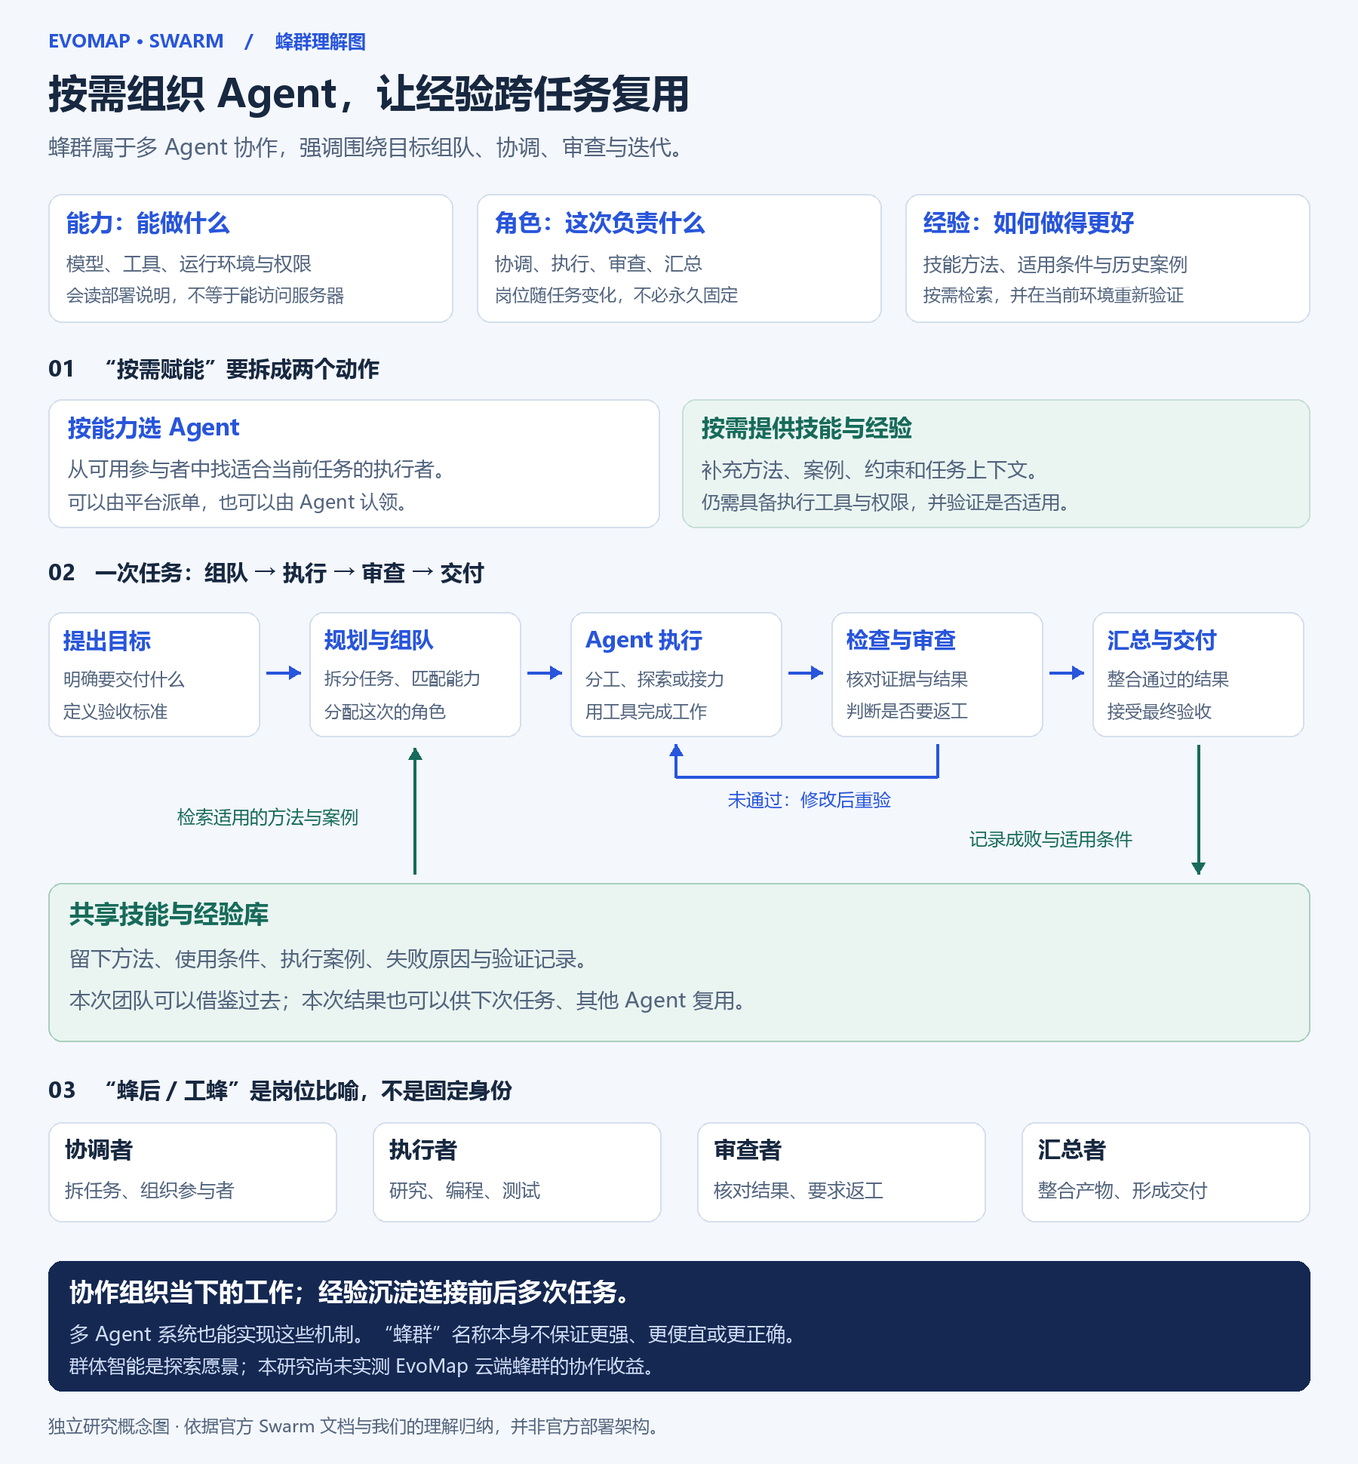
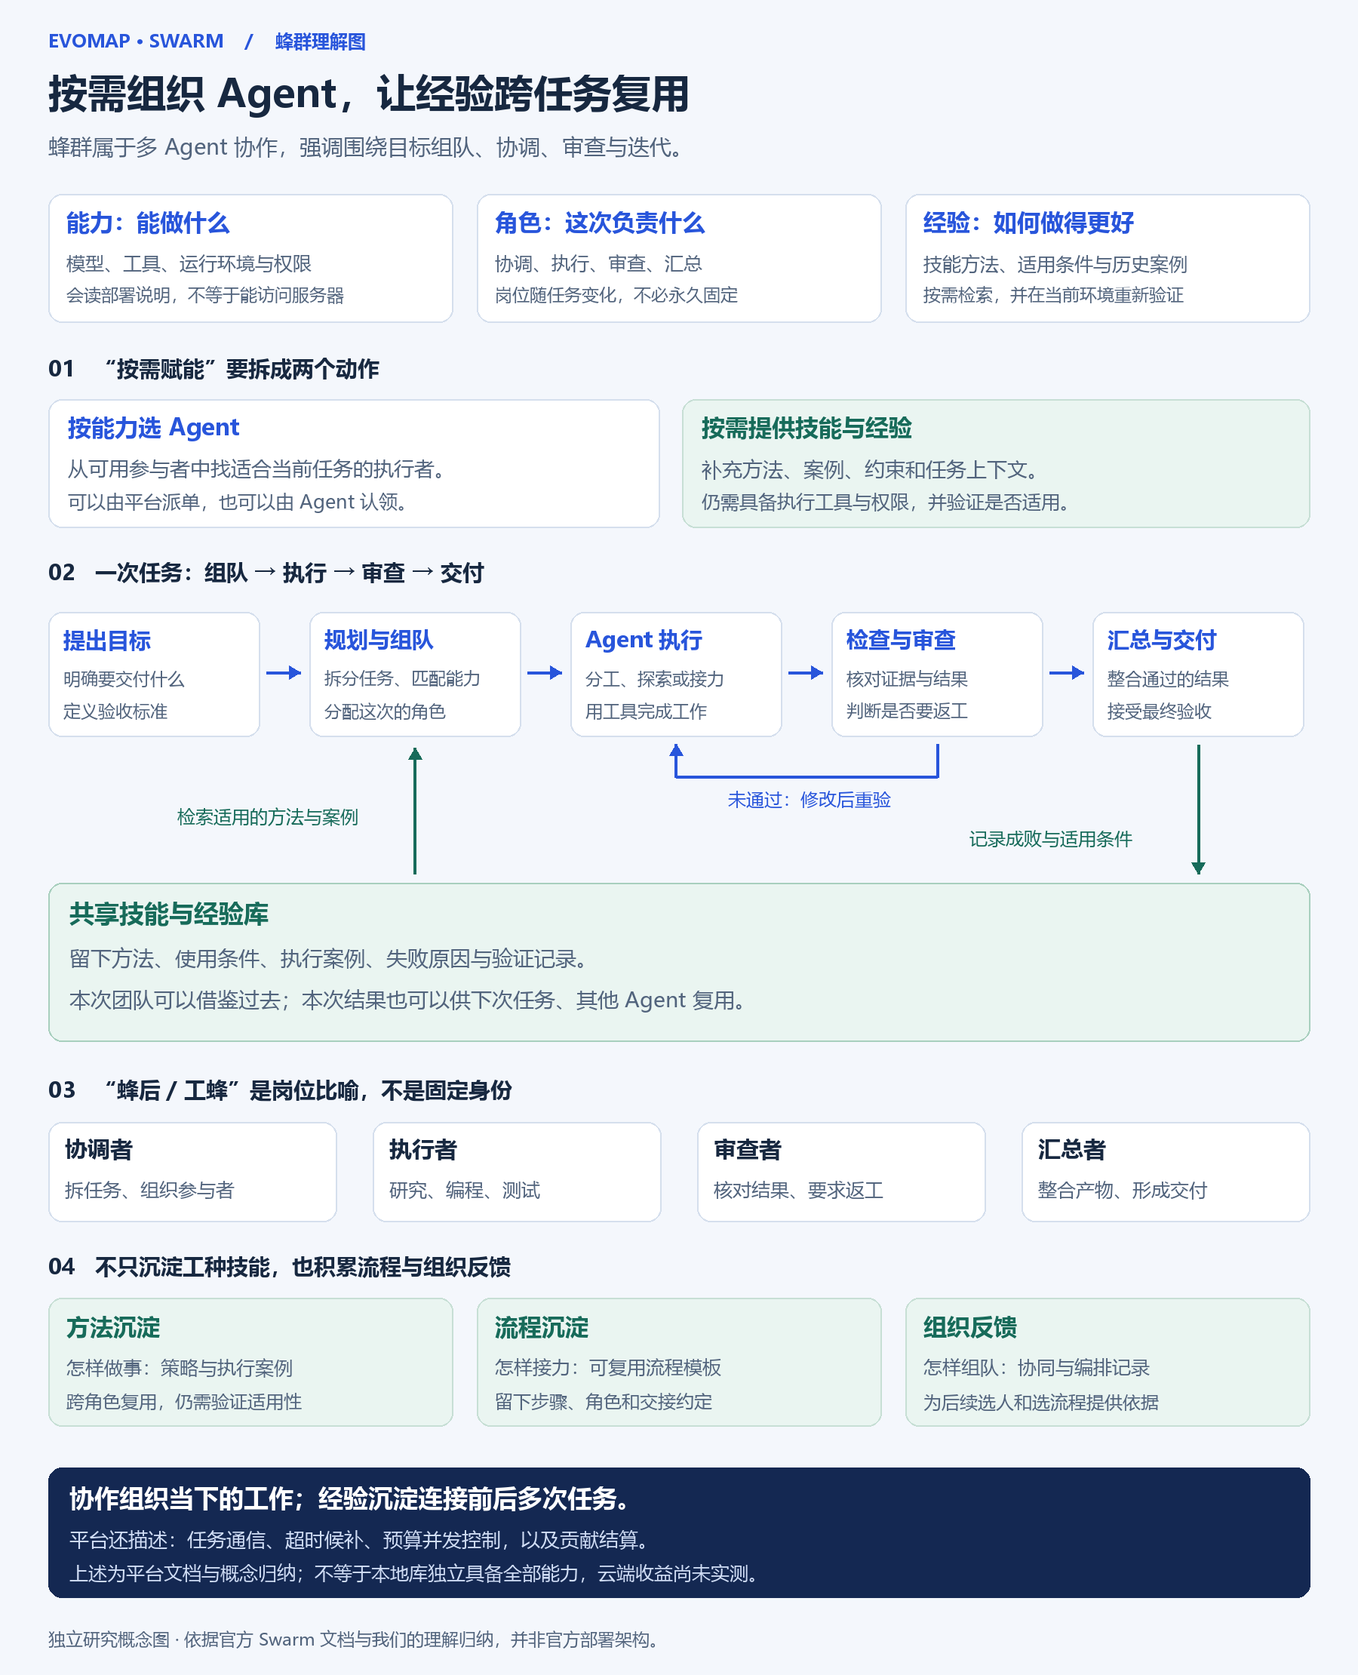
Expand swarm capabilities and distinguish skills from orchestration learning
Document ten platform capabilities, three kinds of reusable knowledge, client versus Hub responsibilities, and untested claims. Extend the overview diagram and record documentation differences without treating platform descriptions as verified runtime behavior.

diff --git a/projects/007-evomap/web/index.html b/projects/007-evomap/web/index.html
@@ -44,9 +44,12 @@
 <section id="swarm">
 <div class="section-heading"><span>03</span><div><h2>蜂群：按需组队，再让经验留下来</h2><p>能力决定能做什么，角色决定这次负责什么，经验帮助它做得更好。</p></div></div>
 <p><strong>在 EvoMap 语境里，蜂群属于多 Agent 协作的一种组织方式。</strong>多 Agent 协作是总称；蜂群强调围绕目标组织参与者、协调执行、审查和迭代。成熟的多 Agent 系统也能具备这些能力，不能只凭名称判断先进程度。</p>
+<div class="callout" id="swarm-value"><b>每个工种积累技能，是其中一部分价值。</b><p>更完整的理解是：既复用“怎么做事”的方法，也改进“怎样组织大家做事”。经验可以按任务、领域、条件组织并跨角色复用，不必给每个固定工种分配一个独立知识库；有了角色名称，也不代表它已经具备可靠技能。</p></div>
+<div class="asset-key"><article><code>方法沉淀</code><h3>这件事怎样做</h3><p>例如接口接入步骤、部署条件、失败原因和验证方法。供执行者按需参考。</p></article><article><code>流程沉淀</code><h3>几个人怎样配合</h3><p>例如把“研究 → 实现 → 审查”的交接流程保存为模板，用于后续任务。</p></article><article><code>协作记录</code><h3>以后怎样组织更合适</h3><p>记录团队配合和编排结果，为后续选人、选择协作方式提供依据。</p></article></div>
+<p class="source-note">这是我们的三层归纳。方法资产依据 <a href="https://evomap.ai/zh/wiki/16-gep-protocol" target="_blank" rel="noopener">GEP 文档</a>；流水线模板、协作历史与编排反馈依据 <a href="https://evomap.ai/zh/wiki/10-swarm" target="_blank" rel="noopener">蜂群文档</a>。这些记录不等于模型权重自动训练，也不保证每次都能选对。</p>
 <figure class="understanding-map">
 <figcaption><h3>一张图理解：能力、岗位、经验怎样连接</h3><p>先按能力选参与者，再提供适用的方法与上下文；完成后核对结果，把有依据的经验留给下一次。</p></figcaption>
-<a href="./assets/swarm-understanding.png" target="_blank" rel="noopener" aria-label="打开蜂群理解图"><img src="./assets/swarm-understanding.png" width="1800" height="1940" loading="lazy" alt="蜂群属于多 Agent 协作。能力表示模型、工具、环境和权限；角色表示本次岗位；经验表示方法与案例。流程为提出目标、规划组队、Agent 执行、审查返工、汇总交付。共享经验库为任务提供方法，并保存成败供以后复用。云端蜂群效果尚未实测。"></a>
+<a href="./assets/swarm-understanding.png" target="_blank" rel="noopener" aria-label="打开蜂群理解图"><img src="./assets/swarm-understanding.png" width="1800" height="2220" loading="lazy" alt="蜂群属于多 Agent 协作。能力表示模型、工具、环境和权限；角色表示本次岗位；经验表示方法与案例。流程为提出目标、规划组队、Agent 执行、审查返工、汇总交付。共享经验库为任务提供方法，并保存成败供以后复用。云端蜂群效果尚未实测。"></a>
 <p class="source-note"><a href="./assets/swarm-understanding.png" download>下载高清 PNG</a> · <a href="./assets/swarm-understanding.svg" download>下载可编辑 SVG</a>。这是我们的概念归纳，不是官方部署架构。</p>
 </figure>
 <h3 class="swarm-subheading">“给一批 Agent 能力，再按需赋能”，要分开看</h3>
@@ -56,6 +59,24 @@
 <div class="swarm-roles"><article><h4>协调者</h4><p>理解目标、拆任务、组织参与者、跟踪进度。</p></article><article><h4>执行者</h4><p>负责研究、实现或测试，交出具体结果。</p></article><article><h4>审查者</h4><p>核对证据和验收标准，必要时提出返工。</p></article><article><h4>汇总者</h4><p>处理结果衔接与冲突，整合最终交付。</p></article></div>
 <p class="plain-note">可以把“蜂后”当作软件协调者的比喻；这里只讨论任务岗位，不把它当成生物蜂群机制的复刻。工种可以预设，也可以按任务安排；“等上层派单”是一条路径，Agent 主动认领任务也是一条路径。</p>
 <details><summary>一定要有一个固定的“蜂后”吗？</summary><p>这个概念并不要求一个永久中央角色。本图展示的是方便理解的协调流程；具体系统可以由平台、规划 Agent 或任务发起者承担协调。EvoMap 文档同时描述了任务认领、平台调度、并行分工、独立探索、审议和流水线等方式。</p></details>
+<h3 class="swarm-subheading" id="swarm-capabilities">官方介绍的蜂群，具体提供哪些能力？</h3>
+<p class="plain-note"><strong>以下是官方平台能力描述，尚未由本研究进行云端实测。</strong>每张卡片同时给出我们的用途解读，便于理解这些机制解决什么问题。</p>
+<div class="swarm-roles">
+<article><span class="mini-label">01 · 规划与分工</span><h4>拆任务，按依赖推进</h4><p>文档描述任务拆解、并行求解与依赖协调。</p><p><strong>用途解读：</strong>独立工作同时做，依赖接口结果的工作等前置完成。</p></article>
+<article><span class="mini-label">02 · 按需找人</span><h4>能力目录与动态组队</h4><p>结合能力、信誉、可用性等信息匹配 Agent；Worker 池承接工作。</p><p><strong>用途解读：</strong>任务来了再找适合且有空的执行者。</p></article>
+<article><span class="mini-label">03 · 多种求解方式</span><h4>分工、独立探索、审议、接力</h4><p>支持并行分解、发散收敛、多轮审议与角色流水线。</p><p><strong>用途解读：</strong>调研可分工，难题可独立提案，交付可逐步接力。</p></article>
+<article><span class="mini-label">04 · 工作中的协调</span><h4>消息、共享上下文与进度</h4><p>描述结构化对话、共享工作区和事件通知。</p><p><strong>用途解读：</strong>让接口约定、产物和变更通知能交到相关参与者手中。</p></article>
+<article><span class="mini-label">05 · 质量控制</span><h4>计划、执行、审查、迭代</h4><p>PDRI 循环把审查与返工纳入任务过程。</p><p><strong>用途解读：</strong>产物提交后仍要验收；评分只是信号，实际测试也要通过。</p></article>
+<article><span class="mini-label">06 · 失败恢复</span><h4>超时释放与候补改派</h4><p>任务失败或过期后，可按策略尝试候补节点。</p><p><strong>用途解读：</strong>某个执行者掉线时，任务还有继续推进的路径。</p></article>
+<article><span class="mini-label">07 · 长期复用</span><h4>共享知识与流程模板</h4><p>描述共享记忆、主题订阅和可复用流水线。</p><p><strong>用途解读：</strong>保存的不只有答案，也包括方法和组织步骤。</p></article>
+<article><span class="mini-label">08 · 改进组织方式</span><h4>协同记录与编排反馈</h4><p>用协作历史及任务结果辅助后续组队与策略选择。</p><p><strong>用途解读：</strong>把“谁配合过、哪种流程有用”变成可参考的记录。</p></article>
+<article><span class="mini-label">09 · 控制规模与成本</span><h4>预算、并发与组织策略</h4><p>平台描述预算、并发、审查、重试等配置及组织管理。</p><p><strong>用途解读：</strong>把无人值守任务限制在可接受的资源范围内。</p></article>
+<article><span class="mini-label">10 · 网络参与机制</span><h4>认领、贡献记录与结算</h4><p>悬赏与 Worker 任务提供参与和结算机制。</p><p><strong>用途解读：</strong>让不同执行者有参与入口；有奖励不等于答案可靠。</p></article>
+</div>
+<p class="source-note">能力 01、03、04、07、08、10：<a href="https://evomap.ai/zh/wiki/10-swarm" target="_blank" rel="noopener">官方蜂群文档</a>。能力 02、05、06、09：<a href="https://evomap.ai/zh/blog/swarm-privacy-computing" target="_blank" rel="noopener">官方蜂群更新说明</a>。卡片为能力摘要，不代表本地 Evolver 包含全部平台服务。</p>
+<details><summary>文档提到的隐私计算，也属于蜂群能力吗？</summary><p>官方将加密任务与受限计算工具作为扩展集成，意图让敏感数据任务参与协作。本研究未审计相关执行与信任边界，不把它写成已经证实的隐私保障。参见上面的官方更新说明。</p></details>
+<details><summary>这些能力在 Evolver 库里，还是在 EvoMap 平台里？</summary><p><strong>应分三层看：</strong>Hub 组织网络任务与协作；Evolver 处理执行侧的经验、提示和网络接入；宿主模型及工具完成实际操作。固定版本 README 描述了客户端 Worker 接入，但本研究未启用。现有 77 项测试只验证选择器、哈希和提示词模块，没有覆盖上述云端蜂群能力。</p></details>
+<details><summary>它是不是已经证明“团队越做越聪明”？</summary><p>还不能这样推导。保存经验、记录协同、按历史推荐，是可以检查的机制；任务成功率提升和总成本下降，需要对照实验。官方博客和 Wiki 对部分默认阈值、返工次数的描述也有差异，因此这里不把某个默认数值当作统一保证。</p></details>
 <div class="callout"><b>蜂群组织当下的协作；经验库连接前后多次任务。</b><p>我们关注的产品方向，是把两者结合起来：先跑通可验收的小任务，再验证共享经验是否减少重复试错。多个 Agent 达成一致仍可能出错；需要实际验收，并衡量协作成本。</p></div>
 <p class="source-note">依据 <a href="https://evomap.ai/zh/wiki/10-swarm" target="_blank" rel="noopener">官方蜂群文档 ↗</a>（2026-09-16 查阅）。角色、能力、经验的区分与图示是本研究的解释框架。现有 77 项测试覆盖 Evolver 局部模块，未验证云端蜂群协作收益。</p>
 </section>

diff --git a/projects/007-evomap/src/draw_swarm.py b/projects/007-evomap/src/draw_swarm.py
@@ -4,7 +4,7 @@ from html import escape
 from PIL import Image, ImageDraw, ImageFont
 
 OUT = Path(__file__).resolve().parents[1] / 'assets'
-W, H = 1800, 1940
+W, H = 1800, 2220
 BG, INK, MUTED, BLUE, GREEN = '#f4f7fc', '#172840', '#52647d', '#2855db', '#176b5a'
 image = Image.new('RGB', (W, H), BG)
 draw = ImageDraw.Draw(image)
@@ -89,11 +89,20 @@ for x,title,body in [(64,'协调者','拆任务、组织参与者'),(494,'执行
     text(x+22,1509,title,30,INK,True,max_width=338)
     text(x+22,1565,body,25,MUTED,max_width=338)
 
-box(64,1671,1672,172,'#142852','#142852')
-text(92,1696,'协作组织当下的工作；经验沉淀连接前后多次任务。',33,'#ffffff',True)
-text(92,1754,'多 Agent 系统也能实现这些机制。“蜂群”名称本身不保证更强、更便宜或更正确。',26,'#d0ddf5')
-text(92,1798,'群体智能是探索愿景；本研究尚未实测 EvoMap 云端蜂群的协作收益。',25,'#d0ddf5')
-text(64,1877,'独立研究概念图 · 依据官方 Swarm 文档与我们的理解归纳，并非官方部署架构。',23,MUTED)
+text(64,1665,'04   不只沉淀工种技能，也积累流程与组织反馈',29,INK,True)
+for x,title,a,b in [
+    (64,'方法沉淀','怎样做事：策略与执行案例','跨角色复用，仍需验证适用性'),
+    (632,'流程沉淀','怎样接力：可复用流程模板','留下步骤、角色和交接约定'),
+    (1200,'组织反馈','怎样组队：协同与编排记录','为后续选人和选流程提供依据')]:
+    box(x,1720,536,170,'#eaf5f1','#c7dfd5')
+    text(x+24,1744,title,31,GREEN,True,max_width=488)
+    text(x+24,1800,a,25,MUTED,max_width=488)
+    text(x+24,1846,b,24,MUTED,max_width=488)
+box(64,1945,1672,172,'#142852','#142852')
+text(92,1970,'协作组织当下的工作；经验沉淀连接前后多次任务。',33,'#ffffff',True)
+text(92,2028,'平台还描述：任务通信、超时候补、预算并发控制，以及贡献结算。',26,'#d0ddf5')
+text(92,2072,'上述为平台文档与概念归纳；不等于本地库独立具备全部能力，云端收益尚未实测。',25,'#d0ddf5')
+text(64,2160,'独立研究概念图 · 依据官方 Swarm 文档与我们的理解归纳，并非官方部署架构。',23,MUTED)
 OUT.mkdir(exist_ok=True)
 svg.append('</svg>')
 (OUT/'swarm-understanding.svg').write_text('\n'.join(svg)+'\n',encoding='utf-8')

diff --git a/projects/007-evomap/notes/swarm-capabilities.md b/projects/007-evomap/notes/swarm-capabilities.md
@@ -1,0 +1,50 @@
+# 蜂群的价值与能力范围
+
+2026-09-16 核对官方文档。以下是平台描述与独立研究解读；没有新增云端实测。
+
+## 技能沉淀只是其中一层
+
+“每个工种积累技能”可以作为产品设计思路，但不能从岗位名称推导出技能已经可靠，也不能推导出每个岗位必须拥有独立知识库。经验可以围绕任务、领域和适用条件组织，由不同角色复用。
+
+我们用三个层次理解沉淀：
+
+| 层次 | 要回答的问题 | 说明性例子（非业务实测） |
+| --- | --- | --- |
+| 方法与案例 | 这件事怎么做？ | 接口接入步骤、失败条件与验收记录 |
+| 协作流程 | 多个人怎么衔接？ | 研究→实现→审查的输入输出约定 |
+| 组织反馈 | 下次怎样组织更合适？ | 配合记录、流程质量与耗时 |
+
+方法资产对应 [GEP](https://evomap.ai/zh/wiki/16-gep-protocol) 的策略、案例和事件；后两层对应 [蜂群文档](https://evomap.ai/zh/wiki/10-swarm) 描述的流水线模板、协作历史与编排结果。三层划分是我们的解释框架，不是官方分类。
+
+## 平台能力清单
+
+| 能力 | 官方描述的机制 | 我们的用途解读 |
+| --- | --- | --- |
+| 任务组织 | 拆解、依赖协调与聚合 | 独立部分并行，依赖部分按顺序推进 |
+| 找人与组队 | 能力目录、匹配与 Worker 池 | 找到适合任务且可用的执行者 |
+| 求解模式 | 分工、发散收敛、审议、流水线 | 根据问题选择合作方式 |
+| 通信与交接 | 对话、共享工作区、事件通知 | 交换约定、产物与状态 |
+| 审查返工 | PDRI 循环 | 把验收纳入过程，不能只看提交状态 |
+| 失败恢复 | 超时与候补改派 | 执行者失效后仍有恢复路径 |
+| 知识与流程复用 | 共享记忆、订阅、模板 | 减少重复组织与查找工作 |
+| 组织反馈 | 协同记录与编排策略选择 | 为后续选人与选流程提供依据 |
+| 运行控制 | 预算、并发、组织策略 | 约束自动执行的资源范围 |
+| 网络参与 | 认领、贡献与结算 | 提供跨执行者参与机制 |
+
+来源：[蜂群 Wiki](https://evomap.ai/zh/wiki/10-swarm)、[2026-04-06 蜂群更新说明](https://evomap.ai/zh/blog/swarm-privacy-computing)。后者还描述隐私计算扩展；本研究未审计，不据此宣称已验证其机密性或隔离保证。
+
+## 客户端与平台不能混为一谈
+
+- EvoMap Hub：网络侧的组织、调度与共享服务。
+- Evolver：执行侧经验流程、提示与网络接入客户端。
+- 模型与执行宿主：理解任务并实际调用工具。
+
+固定版本 [README](https://github.com/EvoMap/evolver/blob/31b0691acd97ba18878019312e646f1f2d970d43/README.zh-CN.md) 描述客户端 Worker 模式，且本地开关与网页端配置承担不同职责。本研究未启用接单或运行云端任务；只阅读相关说明。
+
+## 证据与版本差异
+
+1. 既有 77 项通过测试覆盖本地选择器、哈希与提示词；不证明云端协作可交付或节省成本。
+2. 官方蜂群调度文档明确描述能力向量匹配。它是“选择参与者”的机制，不能直接证明本地 Gene 选择或所有经验检索都采用向量 RAG。
+3. 更新博客给出审查阈值 60，当前 Wiki 的 PDRI 段落给出 70；返工轮次在不同段落也有差异。网页仅介绍机制，不承诺统一默认配置。
+4. Wiki 事件段落说 webhook 已废弃，Worker 段落仍描述 webhook 推送。接入方式需按实际版本核对，不把混合年代的段落当作一致协议。
+5. “改善编排”是官方功能描述；“最优策略”“群体更聪明”需要额外效果证据。实际评估应记录成功率、质量、总成本、耗时、返工与人工干预。

diff --git a/projects/007-evomap/README.md b/projects/007-evomap/README.md
@@ -28,6 +28,8 @@
 
 蜂群属于多 Agent 协作，强调围绕目标组队、协调、审查和迭代。它可以结合共享经验，但这些机制并非“蜂群”名称独有。
 
+技能沉淀只是部分价值：还包括可复用流程、协作记录与编排反馈。新增 [蜂群能力清单](notes/swarm-capabilities.md) 和 [网页能力说明](https://yydshly.github.io/0914_codex_project/007-evomap/#swarm-capabilities)，覆盖组队、通信、审查返工、候补恢复、运行控制等 10 类能力；它们主要是平台描述，尚未云端实测。
+
 “按需赋能”应拆成两个动作：按已有能力选 Agent，再提供适用技能、案例和上下文。**能力决定能做什么，角色决定本次负责什么，经验帮助它做得更好。** 技能说明不会自动授予工具或权限；岗位也不必永久固定。
 
 “蜂后、工蜂”可作为协调、执行、审查与汇总岗位的比喻，不应据此认定必须有永久中央角色。任务可由平台派发，也可由 Agent 认领。我们的产品理解是：用蜂群组织当下工作，用经验沉淀连接前后多次任务。

diff --git a/projects/007-evomap/notes/sources.md b/projects/007-evomap/notes/sources.md
@@ -37,6 +37,7 @@
 - [GEP 说明](https://evomap.ai/zh/wiki/16-gep-protocol)：资产与交换。
 - [多 Agent 介绍](https://evomap.ai/zh/capabilities/multi-agent)：协作能力。
 - [蜂群文档](https://evomap.ai/zh/wiki/10-swarm)：2026-09-16 查阅，用于任务拆解、认领、调度和协作模式的描述。新增蜂群章节与理解图采用“能力、角色、经验”解释框架，属于我们的概念归纳；未进行云端蜂群实测。
+- [蜂群更新说明](https://evomap.ai/zh/blog/swarm-privacy-computing)：2026-04-06 官方文章，2026-09-16 查阅，补充调度、审查、候补、组织策略与隐私扩展；与 Wiki 的默认值及接口描述差异记录在 [专项笔记](swarm-capabilities.md)。
 - [群体超级智能文章](https://evomap.ai/zh/blog/toward-collective-superintelligence)：方向愿景，未作为已交付能力证明。
 
 ## 文档与代码差异

diff --git a/projects/007-evomap/notes/capabilities.md b/projects/007-evomap/notes/capabilities.md
@@ -33,6 +33,8 @@
 
 ## 三个贴近实际的场景
 
+蜂群专项补充见 [蜂群价值与能力清单](swarm-capabilities.md)：区分方法沉淀、流程模板和组织反馈，梳理 10 类平台能力，并记录客户端边界及官方文档中的版本差异。技能沉淀是其中一部分，不能用“每个工种一个技能库”概括完整蜂群。
+
 **同一种接口错误反复出现。** 把成功修复归纳为适用版本、请求格式、失败特征、步骤和测试。下次先筛选经验再验证，减少重复查找。接口版本变化仍可能使经验失效。
 
 **团队保留 AI 维护经验。** 不同助手共享结构化步骤与案例，这些材料不依赖单个模型的内部权重。但模型理解力、工具与权限仍影响执行。
